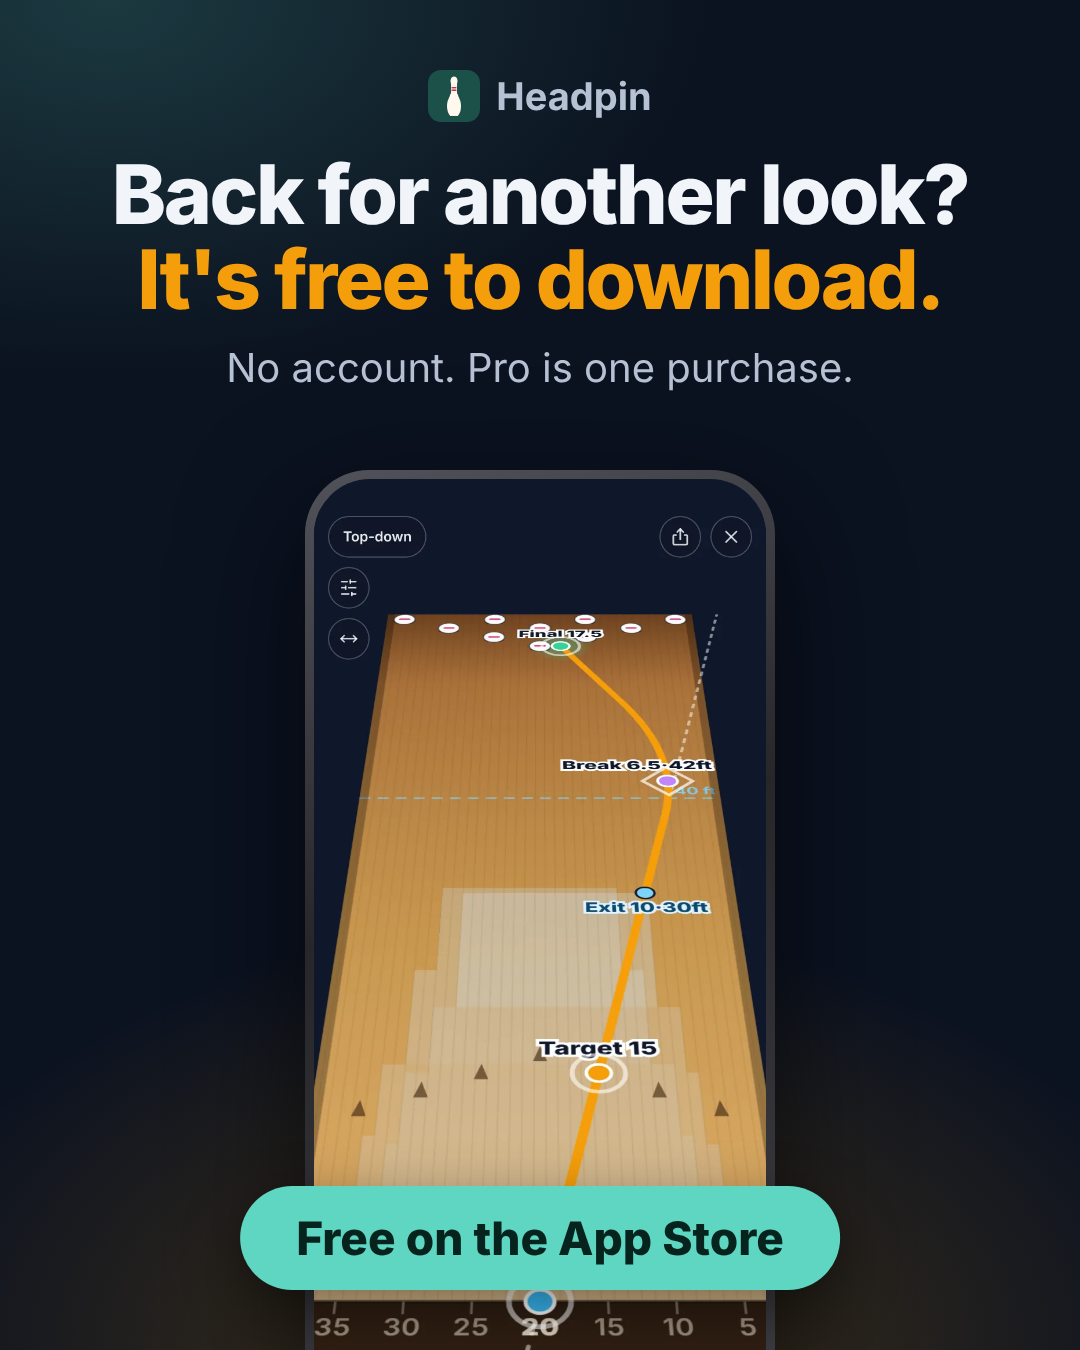
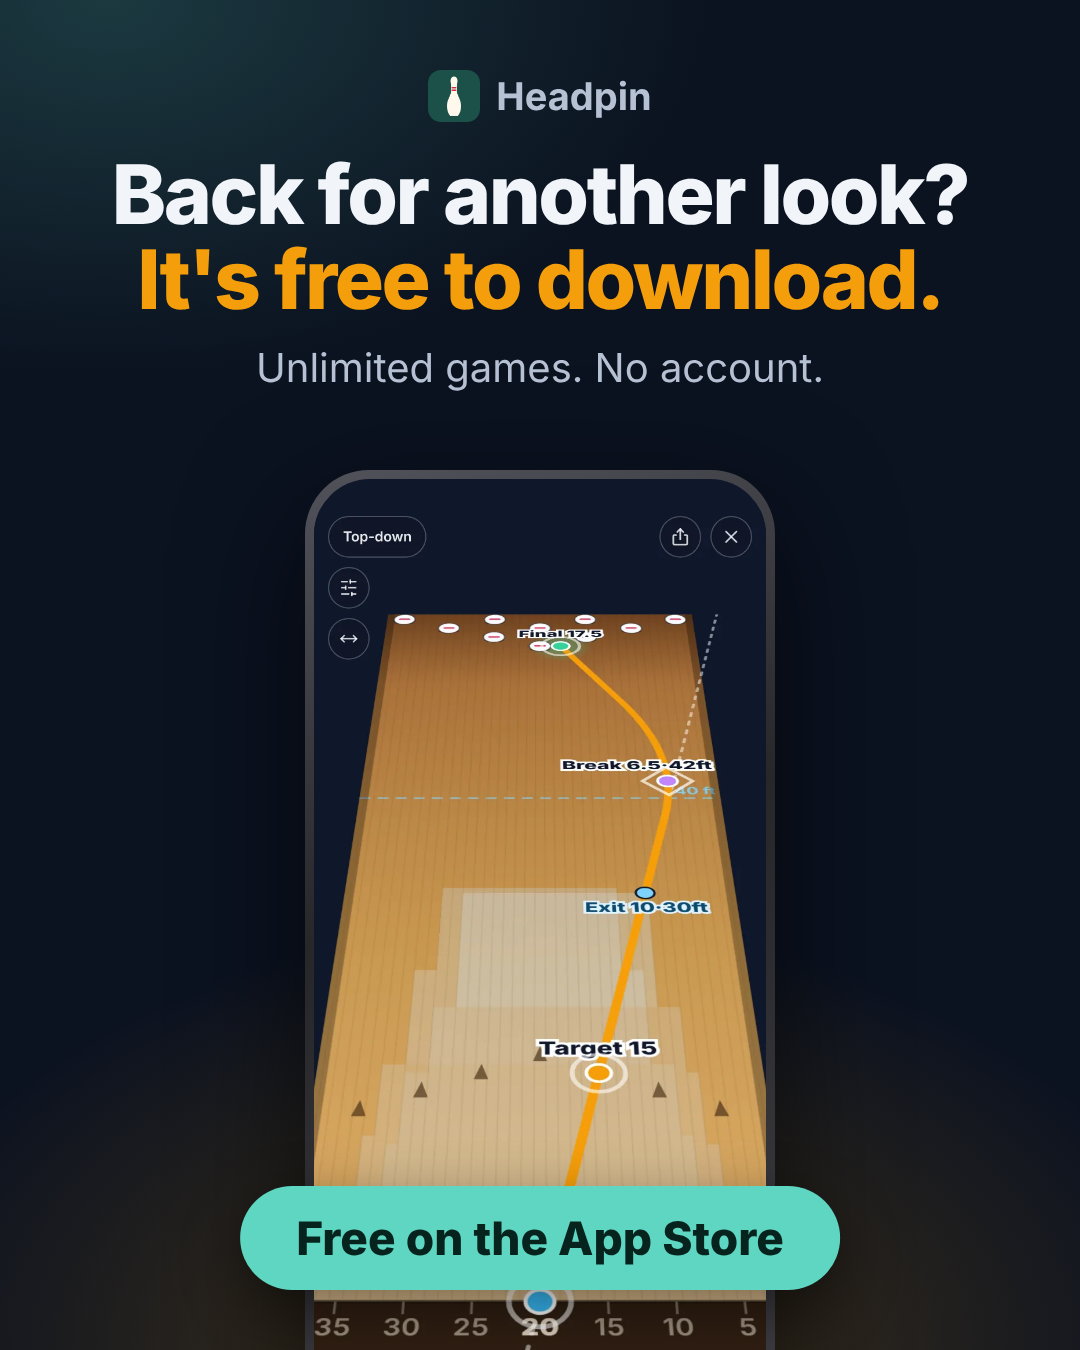
Ads say what is free, and show only the free app
By the owner's call the reel and the stills no longer mention Headpin Pro,
a purchase or a subscription. The Pro act is gone from the reel; the free
run gains a spare lines beat, and the average beat keeps everything but
the free numbers dark, so no Pro card is on screen even dimmed. The end
card drops its Pro line. The stats still, whose picture carries a Pro
card, is replaced by an arsenal still with a full bag, and the retarget
still says "Unlimited games. No account." The reel is 34 s again.

Claude-Session: https://claude.ai/code/session_01EHRBT3VoDWQiasS5k23jxa

Changed region(s): [[0.2139, 0.2489, 0.7944, 0.3111]]

diff --git a/scripts/ad-content/reel/reel.html b/scripts/ad-content/reel/reel.html
@@ -55,12 +55,10 @@
         text-shadow: 0 6px 30px rgb(0 0 0 / 0.55); }
       #cap .w { display: inline-block; white-space: pre; will-change: transform, opacity, filter; }
       #cap .em { background: linear-gradient(180deg, #ffd166 0%, #ff9f1c 100%); -webkit-background-clip: text; background-clip: text; color: transparent; }
-      /* The pill over a run of captions: "Free" in the app's teal, "Headpin
-         Pro" in the gold the captions light their words with. */
+      /* The pill over a run of captions: "Free", in the app's teal. */
       #kicker { position: absolute; left: 50%; top: 290px; transform-origin: 50% 50%; padding: 12px 30px 11px; border-radius: 999px;
         font: 900 30px Inter, sans-serif; letter-spacing: 0.2em; text-transform: uppercase; white-space: nowrap; }
       #kicker.free { color: #5ed6c1; background: rgb(94 214 193 / 0.12); border: 2px solid rgb(94 214 193 / 0.55); box-shadow: 0 0 40px rgb(94 214 193 / 0.25); }
-      #kicker.pro { color: #1d1203; background: linear-gradient(180deg, #ffd166 0%, #ff9f1c 100%); border: 2px solid #ffe3a3; box-shadow: 0 0 50px rgb(255 176 32 / 0.45); }
 
       #flash { position: absolute; inset: 0; background: #fff; pointer-events: none; }
 
@@ -72,9 +70,6 @@
       #end .cta { margin-top: 20px; padding: 26px 64px; border-radius: 999px; background: #5ed6c1; color: #052019;
         font: 900 64px "Inter Display", Inter, sans-serif; letter-spacing: -0.02em; box-shadow: 0 0 80px rgb(94 214 193 / 0.55); }
       #end .note { font-size: 44px; font-weight: 700; color: rgb(255 255 255 / 0.85); letter-spacing: -0.01em; }
-      #end .pro { margin-top: 6px; display: flex; align-items: center; gap: 18px; font: 700 36px Inter, sans-serif; color: #e7eef8; }
-      #end .pro b { font: 900 26px Inter, sans-serif; letter-spacing: 0.18em; text-transform: uppercase; padding: 10px 20px 9px; border-radius: 999px;
-        color: #1d1203; background: linear-gradient(180deg, #ffd166 0%, #ff9f1c 100%); }
       #end .chips { display: flex; flex-wrap: wrap; justify-content: center; gap: 14px; max-width: 900px; margin-top: 10px; }
       #end .chip { font: 700 30px Inter, sans-serif; padding: 12px 24px; border-radius: 999px; background: rgb(255 255 255 / 0.07); color: #cfe0f2; border: 1px solid rgb(255 255 255 / 0.1); }
     </style>
@@ -102,7 +97,6 @@
       <div class="tag">Bowl <em>smarter</em>.</div>
       <div class="cta">Free on the App Store</div>
       <div class="note">Unlimited games · No account · Works offline</div>
-      <div class="pro"><b>Pro</b>One purchase. No subscription.</div>
     </div>
     <div id="grain"></div>
     <div id="flash"></div>

diff --git a/marketing/ads/2026-10-21/README.md b/marketing/ads/2026-10-21/README.md
@@ -1,22 +1,25 @@
 # Launch ads for the iPhone app, October 21, 2026
 
 The third batch of ad creative, rendered from the real app at 0.50: one video,
-the feature reel, and the stills. It replaces `../2026-10-15/`, which said
-everything was free ("It's free", "Nothing to download. It opens in your
-browser."). Since ADR-154 Headpin is free to download with one Pro unlock in the
-iPhone app, so these send a bowler to the App Store and say what is free and
-what is Pro. They are for the launch: run them once the listing is live.
+the feature reel, and the stills. It replaces `../2026-10-15/`, which sent a
+bowler to the web app ("Nothing to download. It opens in your browser.").
+Headpin is now an iPhone app (ADR-154), so these send a bowler to the App
+Store. They are about the features and that the app is free, and say
+nothing about Headpin Pro, purchases or subscriptions, by the owner's call; to
+keep "free" true, they show only what the free app has. They are for the
+launch: run them once the listing is live.
 
 | File | What it is |
 | --- | --- |
-| `headpin-reel.mp4` | 1080 x 1920, 44 s. The feature reel in three acts. One league night in a full iPhone frame (the line over a PBA pattern, ball, line, lane view, scoring, the line carrying over, a 2-1 move, the spare ball and line already set, the tenth). Then what is free, under a teal "Free" pill: unlimited games, average and trends, the whole arsenal, hundreds of balls, oil patterns, and "All free. No limits. No account." Then Headpin Pro under a gold pill: pocket and carry, the leaves that cost you, which ball strikes more, a layout tried before drilling, and "One purchase. No subscription." It ends on "Free on the App Store". Made by `scripts/ad-content/reel/` (see its README). |
-| `still-*-feed.png` | 1080 x 1350 (4:5) feed stills: line, pins, stats, retarget, patterns, spares. |
+| `headpin-reel.mp4` | 1080 x 1920, 34 s. The feature reel. One league night in a full iPhone frame (the line over a PBA pattern, ball, line, lane view, scoring, the line carrying over, a 2-1 move, the spare ball and line already set, the tenth). Then the rest of the app under a teal "Free" pill: unlimited games, average and trends, the whole arsenal, a line for every spare, hundreds of balls, oil patterns, and "All free. No limits. No account." It ends on "Free on the App Store". Made by `scripts/ad-content/reel/` (see its README). |
+| `still-*-feed.png` | 1080 x 1350 (4:5) feed stills: line, pins, arsenal, retarget, patterns, spares. |
 | `still-*-story.png` | 1080 x 1920 (9:16) story stills, the same six. |
 
-The stills keep the 2026-10-15 pictures and headlines; the pill now reads "Free
-on the App Store", the stats still says pocket and carry are Pro, and the
-retarget still says "It's free to download. No account. Pro is one purchase."
-instead of "It's free to try".
+The stills keep the 2026-10-15 pictures and headlines, with the pill now
+"Free on the App Store". The stats still is replaced by an arsenal still ("Your
+whole bag, free."), since the stats picture shows a Pro card, and the retarget
+still says "It's free to download. Unlimited games. No account." instead of
+"It's free to try".
 
 The reel's voiceover is Kokoro (Apache 2.0, so it can run in paid ads) in its
 `af_heart` voice, with two lines given their tone by
@@ -25,9 +28,8 @@ in, since most feed video plays muted. Headpin is "Head pin" in the voice
 script so the p is not swallowed.
 
 What the reel says, beat by beat, is the `VOICE` list in
-`scripts/ad-content/reel/compose.mjs`. Every claim is the free and Pro split in
-`docs/PRO-LAUNCH.md`: "No limits" is games, sessions and the arsenal, which
-have no cap, and each Pro beat shows the Pro card it names.
+`scripts/ad-content/reel/compose.mjs`. "No limits" is games, sessions and the
+arsenal, which have no cap in the free app (`docs/PRO-LAUNCH.md`).
 
 The App Store has no Android listing yet (ADR-154), so target these at iPhone
 users; an Android bowler who taps through has nowhere to go but the web app.

diff --git a/scripts/ad-content/reel/README.md b/scripts/ad-content/reel/README.md
@@ -1,20 +1,19 @@
 # The feature reel
 
-A 9:16 reel in three acts, built from the real app. First, one league night: a
-line over a PBA pattern, a ball, a line, the lane view, scoring, the line
-carrying over to the next shot, a 2-1 move, a spare ball and line that are
-already set, and the tenth. Then what is free, one screen to a line under a teal
-"Free" pill (unlimited games, average and trends, the whole arsenal, hundreds
-of balls, oil patterns), dealt out in a fan for "All free. No limits. No
-account." Then Headpin Pro under a gold pill, each read on the real card it
-names (pocket and carry, the leaves that cost you, which ball strikes more, a
-layout changed before drilling), a fan for "One purchase. No subscription.",
-and the card: "Free on the App Store".
+A 9:16 reel built from the real app. First, one league night: a line over a
+PBA pattern, a ball, a line, the lane view, scoring, the line carrying over to
+the next shot, a 2-1 move, a spare ball and line that are already set, and the
+tenth. Then the rest of the app, one screen to a line under a teal "Free" pill
+(unlimited games, average and trends, the whole arsenal, a line for every
+spare, hundreds of balls, oil patterns), dealt out in a fan for "All free. No
+limits. No account.", and the card: "Free on the App Store".
 
-The split is ADR-154's: recording is free, reading deeper is Pro. A beat that
-shows a Pro card is under the Pro pill, and no free beat shows one unlit (the
-average beat keeps its light on the free numbers, with the first-ball card
-below it dimmed).
+The reel is about the features and that the app is free, by the owner's call:
+it does not mention Headpin Pro, a purchase or a subscription. So it shows only
+what the free app has (ADR-154), and a bowler who installs from it finds every
+screen in it open. Nothing Pro is on screen, even dimmed: the average beat cuts
+in and out with its light on the free numbers and everything else dark, since
+the first-ball card under them is Pro.
 
 It is built in two passes, so the footage stays honest and the editing stays
 smooth.
@@ -81,7 +80,7 @@ way to check a change to the edit.
   can set its own height (`fy`), as the hook does to fill the frame with the
   lane.
 - One effect at a time: a spotlight, a ring or a tap, not all three at once.
-- A run of beats under one pill (`kicker: "free"` or `"pro"`) keeps the pill
+- A run of beats under one pill (`kicker: "free"`) keeps the pill
   still across its cuts, so the run reads as one list; the caption sits under
   it, and a two-line caption there gets a taller solid band.
 - The app's floating tab bar covers the bottom of the screen, so a tap scrolls

diff --git a/docs/CHANGELOG.md b/docs/CHANGELOG.md
@@ -14,10 +14,11 @@ had all shipped.
 Nothing changes in the app. In the repo:
 
 - **A new feature reel** (`marketing/ads/2026-10-21/`) for the iPhone app's
-  launch. It keeps the league night from the last one, then says what is free
-  (unlimited games, the arsenal, the catalogs, average and trends) and what
-  Headpin Pro adds, one purchase with no subscription, and ends on the App
-  Store instead of "It's free". The stills point at the App Store too.
+  launch. It keeps the league night from the last one, then runs through what
+  the free app has (unlimited games, average and trends, the arsenal, spare
+  lines, the catalogs) and ends on "Free on the App Store" instead of "opens in
+  your browser". It shows only free screens. The stills point at the App Store
+  too.
 - **The App Store screenshots** (`marketing/app-store/2026-10-21/`): ten at the
   6.9 inch size, captioned and plain, taken from the app as the iPhone app
   renders it, with the one Pro screen badged as Pro.
